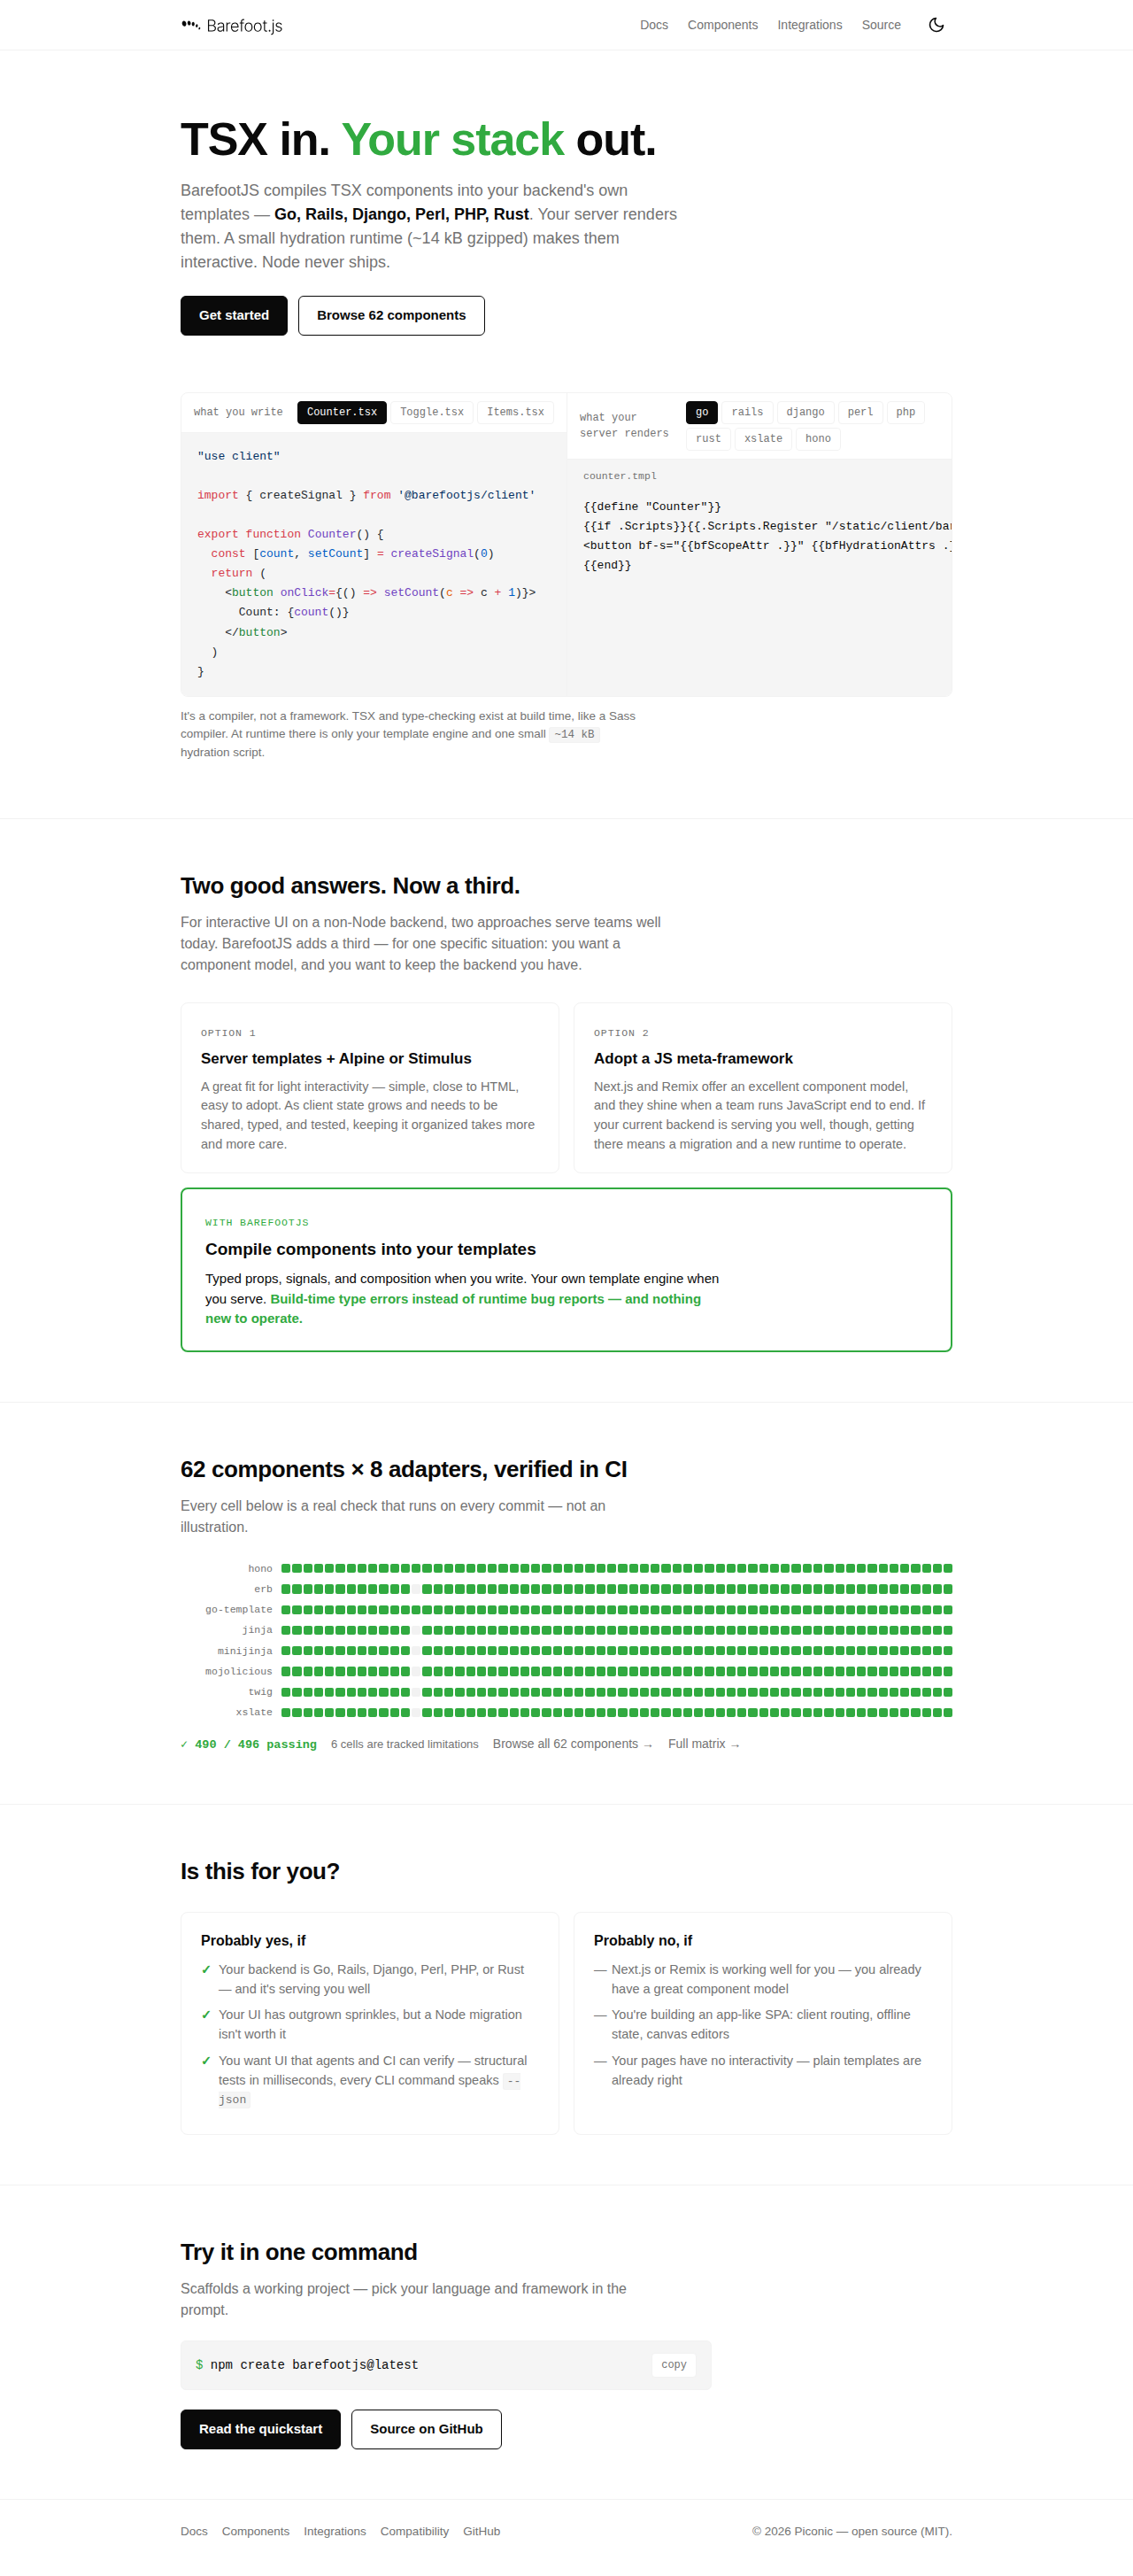
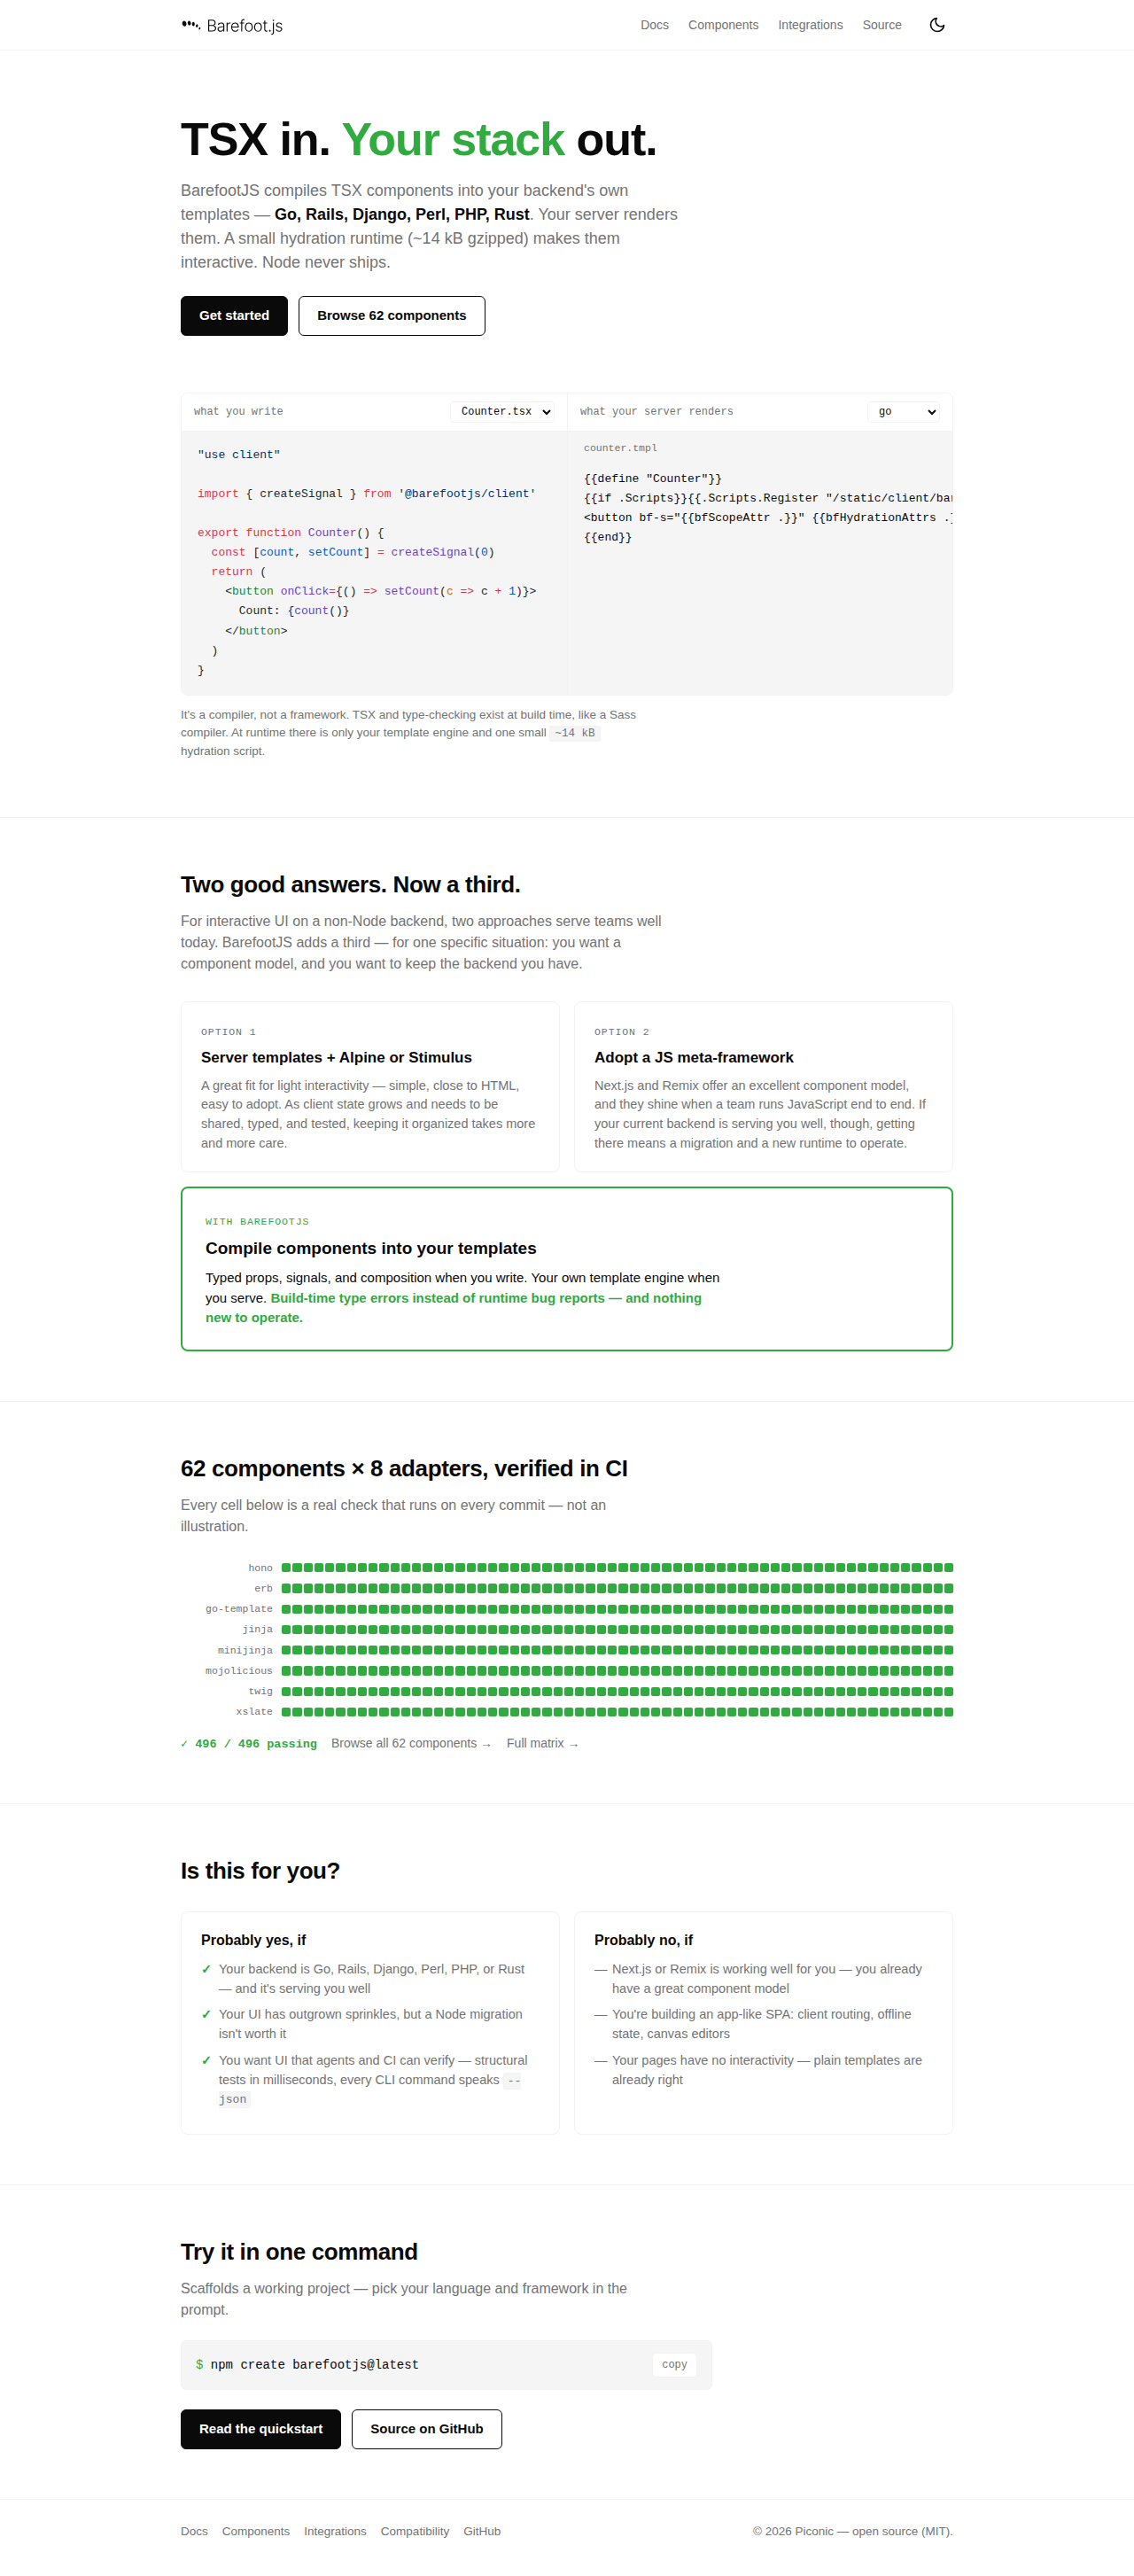
feat(site): demo select boxes, mobile overflow fix
Second feedback round on the renewed LP:

- Example and output-language pickers are native <select> elements
  instead of tab rows (still manual-only, no auto-rotation).
- Fix horizontal overflow at mobile widths: the header now shows the
  footprint icon logo below 760px (the full wordmark + four links
  exceeded 375px), and the footer link row gets min-width:0 so it
  wraps instead of forcing its max-content width.
- e2e updated for the selects, plus a regression test asserting zero
  horizontal page overflow at 375px.

The branch is rebased onto latest main, so the LP matrix (rendered
from ui/compat.lock.json) now shows all 496/496 cells compiling
clean.

Claude-Session: https://claude.ai/code/session_01DfJFhMBQZ2nzYYmdSBuMhv

diff --git a/site/core/landing/components/hero.tsx b/site/core/landing/components/hero.tsx
@@ -11,33 +11,28 @@
 import { highlight, initHighlighter } from './shared/highlighter'
 import { DEMO_EXAMPLES } from './shared/demo-outputs'
 
-// Manual tab switching for the demo. Two dimensions: the active example
-// (left source pane) and the active adapter (right output pane); the
-// visible output panel is always example × adapter. Progressive
-// enhancement: without JS the first example/adapter stays visible.
+// Manual switching for the demo via two native <select>s: the active
+// example (left source pane) and the active adapter (right output
+// pane); the visible output panel is always example × adapter.
+// Progressive enhancement: without JS the first example/adapter stays
+// visible. No auto-rotation.
 const DEMO_TABS_SCRIPT = `(function(){
   var frame = document.querySelector('.demo-frame');
   if (!frame) return;
-  var exTabs = Array.prototype.slice.call(frame.querySelectorAll('.tab[data-example]'));
-  var adTabs = Array.prototype.slice.call(frame.querySelectorAll('.tab[data-out]'));
+  var exSelect = frame.querySelector('select[data-select="example"]');
+  var adSelect = frame.querySelector('select[data-select="adapter"]');
   var srcPanels = Array.prototype.slice.call(frame.querySelectorAll('.src-panel'));
   var outPanels = Array.prototype.slice.call(frame.querySelectorAll('.out-panel'));
-  var example = exTabs.length ? exTabs[0].dataset.example : '';
-  var adapter = adTabs.length ? adTabs[0].dataset.out : '';
 
   function apply() {
-    exTabs.forEach(function(t){ t.setAttribute('aria-selected', String(t.dataset.example === example)); });
-    adTabs.forEach(function(t){ t.setAttribute('aria-selected', String(t.dataset.out === adapter)); });
+    var example = exSelect.value;
+    var adapter = adSelect.value;
     srcPanels.forEach(function(p){ p.classList.toggle('active', p.dataset.example === example); });
     outPanels.forEach(function(p){ p.classList.toggle('active', p.dataset.panel === example + '-' + adapter); });
   }
 
-  exTabs.forEach(function(t){
-    t.addEventListener('click', function(){ example = t.dataset.example; apply(); });
-  });
-  adTabs.forEach(function(t){
-    t.addEventListener('click', function(){ adapter = t.dataset.out; apply(); });
-  });
+  if (exSelect) exSelect.addEventListener('change', apply);
+  if (adSelect) adSelect.addEventListener('change', apply);
 })();`
 
 export function Hero({ uiHref = 'https://ui.barefootjs.dev' }: { uiHref?: string }) {
@@ -71,19 +66,11 @@ export async function DemoSection() {
           <div className="pane">
             <div className="pane-head">
               <span>what you write</span>
-              <div className="tabs" role="tablist" aria-label="Example source">
+              <select className="demo-select" data-select="example" aria-label="Example source">
                 {DEMO_EXAMPLES.map((ex, i) => (
-                  <button
-                    className="tab"
-                    role="tab"
-                    aria-selected={i === 0 ? 'true' : 'false'}
-                    data-example={ex.id}
-                    type="button"
-                  >
-                    {ex.file}
-                  </button>
+                  <option value={ex.id} selected={i === 0}>{ex.file}</option>
                 ))}
-              </div>
+              </select>
             </div>
             {DEMO_EXAMPLES.map((ex, i) => (
               <div className={`src-panel${i === 0 ? ' active' : ''}`} data-example={ex.id}>
@@ -98,19 +85,11 @@ export async function DemoSection() {
           <div className="pane">
             <div className="pane-head">
               <span>what your server renders</span>
-              <div className="tabs" role="tablist" aria-label="Compiled output">
+              <select className="demo-select" data-select="adapter" aria-label="Compiled output language">
                 {DEMO_EXAMPLES[0].outputs.map((out, i) => (
-                  <button
-                    className="tab"
-                    role="tab"
-                    aria-selected={i === 0 ? 'true' : 'false'}
-                    data-out={out.id}
-                    type="button"
-                  >
-                    {out.label}
-                  </button>
+                  <option value={out.id} selected={i === 0}>{out.label}</option>
                 ))}
-              </div>
+              </select>
             </div>
             {DEMO_EXAMPLES.map((ex, i) =>
               ex.outputs.map((out, j) => (

diff --git a/site/core/styles/landing.css b/site/core/styles/landing.css
@@ -46,6 +46,16 @@ main :focus-visible,
   color: var(--foreground);
 }
 
+.lp-logo-full,
+.lp-logo-icon {
+  display: flex;
+  align-items: center;
+}
+
+.lp-logo-icon {
+  display: none;
+}
+
 .lp-nav-links {
   display: flex;
   align-items: center;
@@ -193,27 +203,16 @@ main :focus-visible,
   padding: 16px 18px;
 }
 
-.tabs {
-  display: flex;
-  flex-wrap: wrap;
-  gap: 4px;
-}
-
-.tab {
+.demo-select {
   font-family: var(--font-mono);
   font-size: 12px;
   border: 1px solid var(--border);
   background: var(--background);
-  color: var(--muted-foreground);
+  color: var(--foreground);
   border-radius: 4px;
-  padding: 3px 10px;
+  padding: 3px 8px;
   cursor: pointer;
-}
-
-.tab[aria-selected="true"] {
-  background: var(--foreground);
-  border-color: var(--foreground);
-  color: var(--background);
+  max-width: 55%;
 }
 
 .src-panel,
@@ -502,6 +501,16 @@ main :focus-visible,
   flex-wrap: wrap;
 }
 
+/* min-width:auto on flex items otherwise forces the link row to its
+ * max-content width, overflowing narrow viewports. */
+.lp-foot-row > div {
+  min-width: 0;
+}
+
+.lp-foot-row a {
+  display: inline-block;
+}
+
 .lp-foot-row a {
   color: var(--muted-foreground);
   text-decoration: none;
@@ -516,12 +525,20 @@ main :focus-visible,
 
 @media (max-width: 760px) {
   .lp-nav {
-    gap: 12px;
+    gap: 10px;
   }
 
   .lp-nav-links {
-    gap: 12px;
+    gap: 10px;
     font-size: 13px;
+  }
+
+  .lp-logo-full {
+    display: none;
+  }
+
+  .lp-logo-icon {
+    display: flex;
   }
 
   .demo-frame,

diff --git a/site/core/e2e/lp-demo.spec.ts b/site/core/e2e/lp-demo.spec.ts
@@ -14,32 +14,39 @@ test.describe('landing page demo', () => {
     await page.goto('/')
     await expect(page.locator('.src-panel.active')).toHaveAttribute('data-example', 'counter')
     await expect(page.locator('.out-panel.active')).toHaveAttribute('data-panel', 'counter-go')
-    // All 8 adapters are offered.
-    await expect(page.locator('.tab[data-out]')).toHaveCount(8)
+    // All 8 adapters and all 3 examples are offered.
+    await expect(page.locator('select[data-select="adapter"] option')).toHaveCount(8)
+    await expect(page.locator('select[data-select="example"] option')).toHaveCount(3)
   })
 
-  test('clicking an adapter tab switches the visible output panel', async ({ page }) => {
+  test('selecting an adapter switches the visible output panel', async ({ page }) => {
     await page.goto('/')
-    await page.locator('.tab[data-out="erb"]').click()
+    await page.locator('select[data-select="adapter"]').selectOption('erb')
     await expect(page.locator('.out-panel[data-panel="counter-erb"]')).toBeVisible()
     await expect(page.locator('.out-panel[data-panel="counter-go"]')).toBeHidden()
-    await expect(page.locator('.tab[data-out="erb"]')).toHaveAttribute('aria-selected', 'true')
-    await expect(page.locator('.tab[data-out="go"]')).toHaveAttribute('aria-selected', 'false')
   })
 
-  test('clicking an example tab switches source and keeps the adapter', async ({ page }) => {
+  test('selecting an example switches source and keeps the adapter', async ({ page }) => {
     await page.goto('/')
-    await page.locator('.tab[data-out="twig"]').click()
-    await page.locator('.tab[data-example="items"]').click()
+    await page.locator('select[data-select="adapter"]').selectOption('twig')
+    await page.locator('select[data-select="example"]').selectOption('items')
     await expect(page.locator('.src-panel[data-example="items"]')).toBeVisible()
     await expect(page.locator('.out-panel[data-panel="items-twig"]')).toBeVisible()
   })
 
-  test('tabs never rotate on their own', async ({ page }) => {
+  test('the demo never rotates on its own', async ({ page }) => {
     await page.goto('/')
     await page.waitForTimeout(2500)
-    await expect(page.locator('.tab[data-out][aria-selected="true"]')).toHaveAttribute('data-out', 'go')
-    await expect(page.locator('.tab[data-example][aria-selected="true"]')).toHaveAttribute('data-example', 'counter')
+    await expect(page.locator('.out-panel.active')).toHaveAttribute('data-panel', 'counter-go')
+  })
+
+  test('no horizontal page overflow at mobile width', async ({ page }) => {
+    await page.setViewportSize({ width: 375, height: 800 })
+    await page.goto('/')
+    const overflow = await page.evaluate(
+      () => document.documentElement.scrollWidth - document.documentElement.clientWidth
+    )
+    expect(overflow).toBe(0)
   })
 
   test('matrix renders one cell per component × adapter from real data', async ({ page }) => {

diff --git a/site/core/landing/components/lp-chrome.tsx b/site/core/landing/components/lp-chrome.tsx
@@ -7,14 +7,17 @@
  */
 
 import { ThemeSwitcher } from '@/components/theme-switcher'
-import { Logo } from '../../../shared/components/logo'
+import { Logo, LogoIcon } from '../../../shared/components/logo'
 
 export function LpHeader({ uiHref = 'https://ui.barefootjs.dev' }: { uiHref?: string }) {
   return (
     <header className="lp-header">
       <div className="lp-wrap lp-nav">
         <a className="lp-logo" href="/" aria-label="BarefootJS home">
-          <Logo />
+          {/* Full wordmark on desktop, footprint icon on narrow screens
+              (the wordmark + four nav links overflow a 375px viewport). */}
+          <span className="lp-logo-full"><Logo /></span>
+          <span className="lp-logo-icon"><LogoIcon /></span>
         </a>
         <nav className="lp-nav-links" aria-label="Main">
           <a href="/docs">Docs</a>